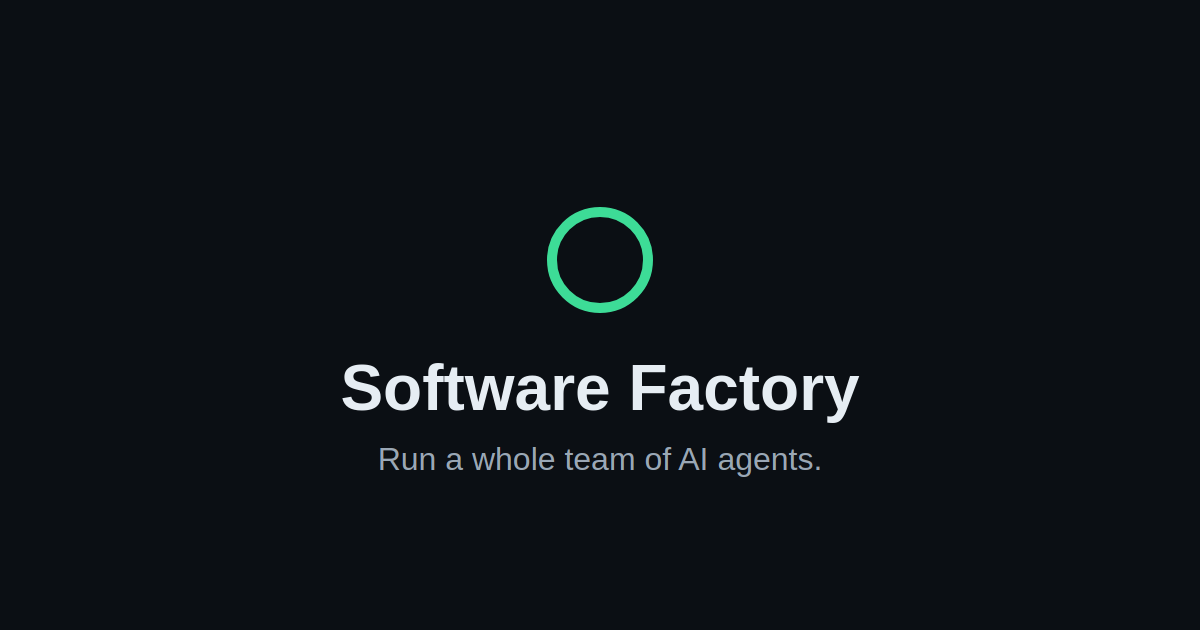
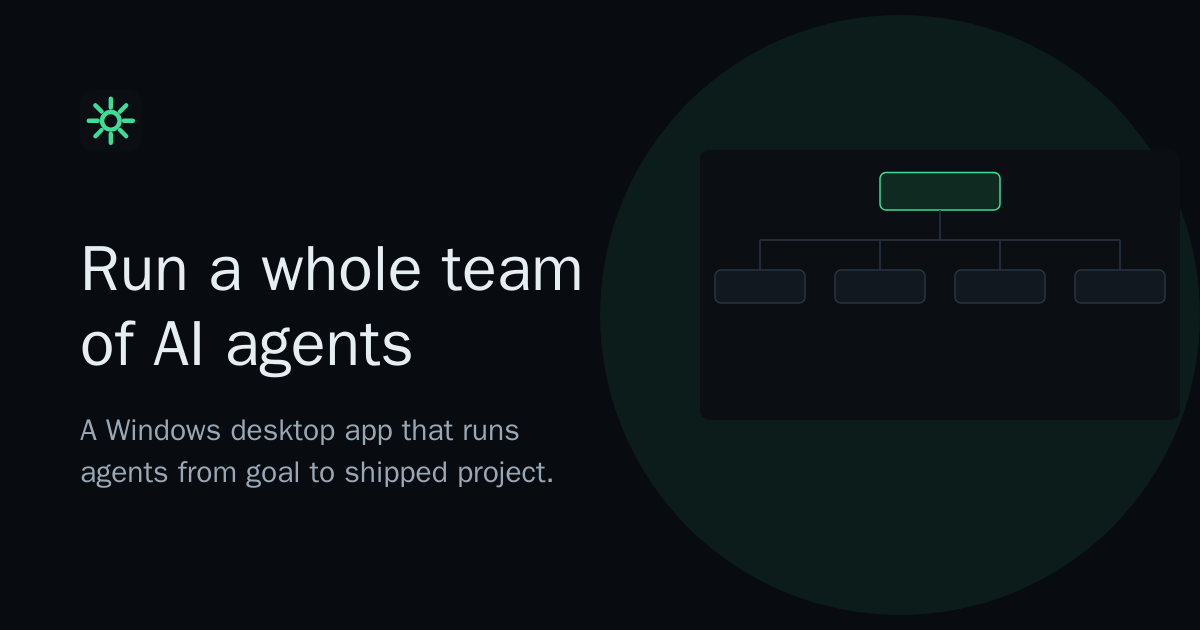
TASK-010: provisional imagery brief, SVG graphics, new og.png

diff --git a/docs/imagery-brief.md b/docs/imagery-brief.md
@@ -1,0 +1,53 @@
+# Imagery brief: product imagery and screenshot showcase plan
+
+> **PROVISIONAL: no real app screenshots were supplied (/vault/context empty as of 2026-10-11). All items are marked `no screenshot reference`. Revisit when the owner uploads screenshots.**
+
+Design language: `src/styles/tokens.css` (dark surfaces `#080b0f`/`#0b0f14`/`#121820`, border `#2a3441`, accent `#3ddc97`, info `#5cb8ff`, warn `#f5b544`, violet `#a78bfa`). Windows-app framing: the existing Windows-window frame from `AppMock`. No fake "real UI" captures are produced; the SVGs below are stylised illustrations.
+
+## Image inventory
+
+| ID | Image | Alt text | Section | Treatment | Reference |
+|----|-------|----------|---------|-----------|-----------|
+| IMG-01 | Main app window (project board with agents) | "The Software Factory desktop app showing a task board with AI agents working in parallel." | Hero | Framed screenshot (PLACEHOLDER slot, currently the animated AppMock) | no screenshot reference |
+| IMG-02 | Plan review / task decomposition view | "The plan review screen listing the tasks an agent team proposes, ready for approval." | HowItWorks | Framed screenshot (PLACEHOLDER slot, currently the stylised SVG `orchestration-flow.svg`) | no screenshot reference |
+| IMG-03 | Orchestration flow graphic | "Four steps: describe the objective, review the plan, agents build on separate branches, then review and ship." | HowItWorks | Stylised SVG illustration: `public/images/orchestration-flow.svg` | no screenshot reference |
+| IMG-04 | Agent-team diagram | "A Project Manager agent coordinating Architect, Designer, Frontend, Backend, DevOps, QA and SEO agents." | AgentRoles | Stylised SVG illustration: `public/images/agent-team.svg` | no screenshot reference |
+| IMG-05 | Agent roster / activity view | "The agent roster showing each agent's role, current task and status." | AgentRoles | Framed screenshot (PLACEHOLDER slot, currently IMG-04) | no screenshot reference |
+| IMG-06 | Feature: agent orchestration | "Central node connected to four agent nodes." | Features | Stylised SVG illustration: `public/images/features/agent-orchestration.svg` | no screenshot reference |
+| IMG-07 | Feature: task decomposition | "One large task split into three smaller tasks." | Features | Stylised SVG illustration: `features/task-decomposition.svg` | no screenshot reference |
+| IMG-08 | Feature: budget control | "A gauge showing spend against a budget limit." | Features | Stylised SVG illustration: `features/budget-control.svg` | no screenshot reference |
+| IMG-09 | Feature: approval gates | "A checkpoint gate with a tick that work must pass." | Features | Stylised SVG illustration: `features/approval-gates.svg` | no screenshot reference |
+| IMG-10 | Feature: sandboxed execution | "A dashed boundary containing a terminal prompt." | Features | Stylised SVG illustration: `features/sandboxed-execution.svg` | no screenshot reference |
+| IMG-11 | Feature: git branch per task | "A main line with task branches merging back." | Features | Stylised SVG illustration: `features/branch-per-task.svg` | no screenshot reference |
+| IMG-12 | Finished project / review-and-merge view | "The review screen showing a completed task with its diff and an approve button." | Proof | Framed screenshot (PLACEHOLDER slot, currently the AppMock) | no screenshot reference |
+| IMG-13 | Social card | "Software Factory: run a whole team of AI agents." (og:image:alt) | Meta (all pages) | Stylised SVG rendered to PNG: `public/og.png` (1200x630), source `public/images/og-source.svg` | no screenshot reference |
+
+## Slot table: screenshots vs illustrations
+
+| Becomes a real framed Windows-window screenshot once supplied | Stays an illustration |
+|---|---|
+| IMG-01 Hero, IMG-02 HowItWorks, IMG-05 AgentRoles, IMG-12 Proof | IMG-03, IMG-04 (diagrams); IMG-06 to IMG-11 (feature icons); IMG-13 (og card) |
+
+Real screenshots go in `public/images/screenshots/` and are shown inside the existing Windows-window frame from `AppMock` (title bar, window controls, `--shadow-mock`). Until then, placeholder slots keep the current SVG or animated AppMock. Swap procedure: drop the PNG in, add `width`/`height`, `loading="lazy"` (not on the Hero), keep the alt text above, and re-check Lighthouse CLS.
+
+## New graphics (created in this task)
+
+All use exact tokens.css hex values, carry `<title>`/`<desc>` plus `role="img"`, and are not wired into pages yet.
+
+- `public/images/features/*.svg`: six 160x120 feature illustrations (IMG-06 to IMG-11), matching `site.features.items[].id`.
+- `public/images/agent-team.svg`: 640x360 PM-to-roles diagram (IMG-04). Eight roles in `site.team.roles`; the diagram shows seven plus the PM. Backend is shown, so all roles are covered.
+- `public/images/orchestration-flow.svg`: 720x200, four steps matching `howItWorks.steps` (IMG-03). Step copy is TODO(PO) in site.ts; update labels if it changes.
+- `public/og.png` regenerated at 1200x630 from `public/images/og-source.svg` (favicon mark, headline, mini team diagram). Re-render with Playwright at a 1200x630 viewport after editing the source.
+
+Note: SVG text uses system fonts (Segoe UI fallback); outline text if exact rendering matters.
+
+## Redaction checklist (for when real screenshots arrive)
+
+- [ ] Windows usernames and user-profile paths (`C:\Users\<name>`), including title bars, file pickers and breadcrumbs
+- [ ] Real project and repo names (use fictional ones, e.g. "Acme Storefront")
+- [ ] API keys, tokens and secrets in settings or logs (use fictional demo values, or hide the field)
+- [ ] Provider account emails and org names
+- [ ] Billing and budget figures that are not demo data
+- [ ] Windows taskbar and clock
+- [ ] Notification toasts and other open windows
+- [ ] Crop to the app window only; use fictional demo data throughout; check agent output text for pasted secrets
